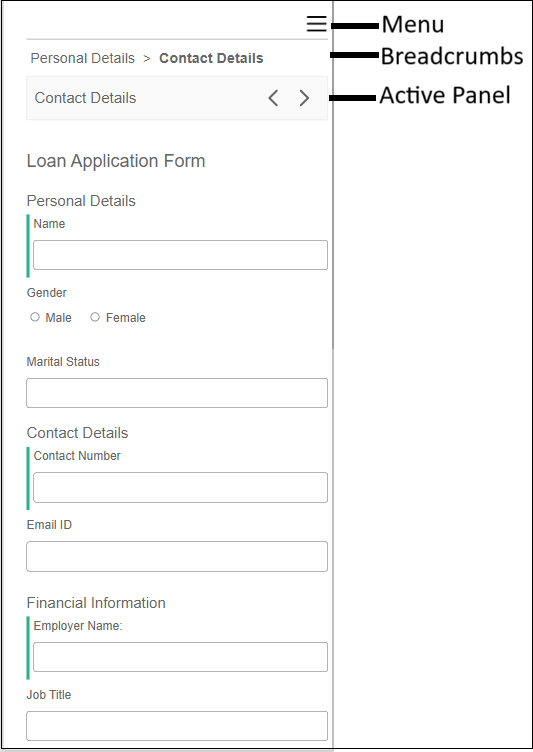
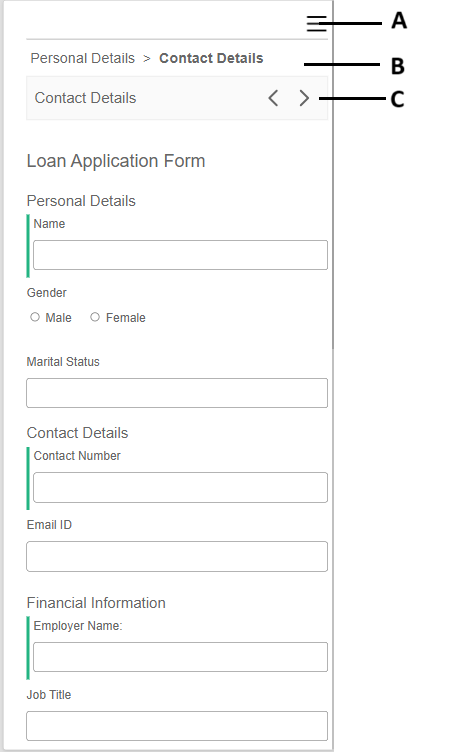
updated content as per feedback

diff --git a/help/adaptive-forms/components/form-container.md b/help/adaptive-forms/components/form-container.md
@@ -64,7 +64,7 @@ You can easily customize your form container experience for visitors with the Co
 At times, if there are **complex validation rules**, the exact validation script reside in custom functions and users calls these custom functions from field validation expression. To make this custom function library known and available while performing server-side validations, the form user can configure the name of AEM client library under the **[!UICONTROL Basic]** tab of Adaptive Form Container properties.
 User can configure customJavaScript library per Adaptive Form. In the library, only keep the reusable functions, which have dependency on jquery and underscore.js third-party libraries.
 
-- **Add Hamburger menu support**: - Select the **[UICONTROL Add Hamburger Menu Support]** checkbox to integrate a hamburger menu into your form. Represented by three horizontal lines stacked vertically, this menu provides a clear and uncluttered display for panels on smaller devices, especially on mobile. For more information about the hamburger menu and its effect on the mobile form display, refer to the [Learn more about the hamburger menu](#learn-more-about-the-hamburger-menu) section.
+- **Add Hamburger menu support**: - Select the **[UICONTROL Add Hamburger Menu Support]** checkbox to integrate a hamburger menu into your form for mobile view. Represented by three horizontal lines stacked vertically, this menu provides a clear and uncluttered display for panels on smaller devices, especially on mobile devices. For more information about the collapsible menu and its effect on the mobile form display, refer to the [Learn more about the hamburger menu](#learn-more-about-the-hamburger-menu) section.
 
 ### Data Model Tab {#data-model-tab}
 
@@ -144,13 +144,13 @@ Consider a scenario, where a financial institution offers an online loan applica
 
 ![Hamburger Menu](/help/adaptive-forms/assets/hamburger-menu.png){width=50%, align=center}
 
-1. **Menu**: The hamburger menu features a navigation panel that slides out or drops down when the hamburger icon is clicked or tapped. It includes links to different sections or panels of the form, allowing users to easily navigate between them.
+**A. Hamburger Menu**: The hamburger menu features a navigation panel that slides out or drops down when the hamburger icon is clicked or tapped. The menu displays the panel headings, and selecting a panel shifts the focus to that panel. It allows users to easily navigate between different panels.
 
-    ![Hamburger Menu](/help/adaptive-forms/assets/hamburger-menu-icon.png){width=50%}
+![Hamburger Menu](/help/adaptive-forms/assets/hamburger-menu-icon.png){width=50%}
 
-2. **Breadcrumbs**: Breadcrumbs are often included in the hamburger menu to indicate the user’s current location within the form. They offer a hierarchical trail that shows the user’s navigation path and helps them understand their position in the form.
+**B. Breadcrumb**: Breadcrumbs indicate the user’s current location within the form. They offer a hierarchical trail that shows the user’s navigation path and helps them understand their position in the form.
 
-3. **Active panel**: The active panel refers to the section or part of the form that is currently being displayed. When a user selects an option from the hamburger menu, the corresponding panel becomes the active panel, showing the relevant fields and information for that section.
+**C. Active panel**: The active panel refers to the section or part of the form that is currently being displayed. When a user selects an option from the hamburger menu, the corresponding panel becomes the active panel, showing the relevant fields and information for that section.
 
 ### How to enable hamburger menu for your form?
 
@@ -177,11 +177,11 @@ To enable hamburger menu for form, perform the following steps:
 
 - **Enhanced mobile experience**: On mobile devices, where screen space is limited, the hamburger menu offers an efficient way to access all form navigation options without overwhelming the user.
 
-### Important points while working with the hamburger menu
+### Points to remember while working with the hamburger menu
 
 * The hamburger menu displays only the names of the panels. 
 * By default, the navigation pane in the breadcrumb component supports up to three levels of navigation. However, with the custom component, you can configure the navigation hierarchy to accommodate as many levels as needed.
-* When using the hamburger menu, the user can navigate between panels. However, once a panel is selected, the menu automatically closes, and focus shifts to the fields within the chosen panel.
+* When using the hamburger menu, the user can navigate between panels using arrows. However, once a panel is selected, the menu automatically closes, and focus shifts to the fields within the chosen panel.
 
 ## Related Articles {#related-articles}
 
